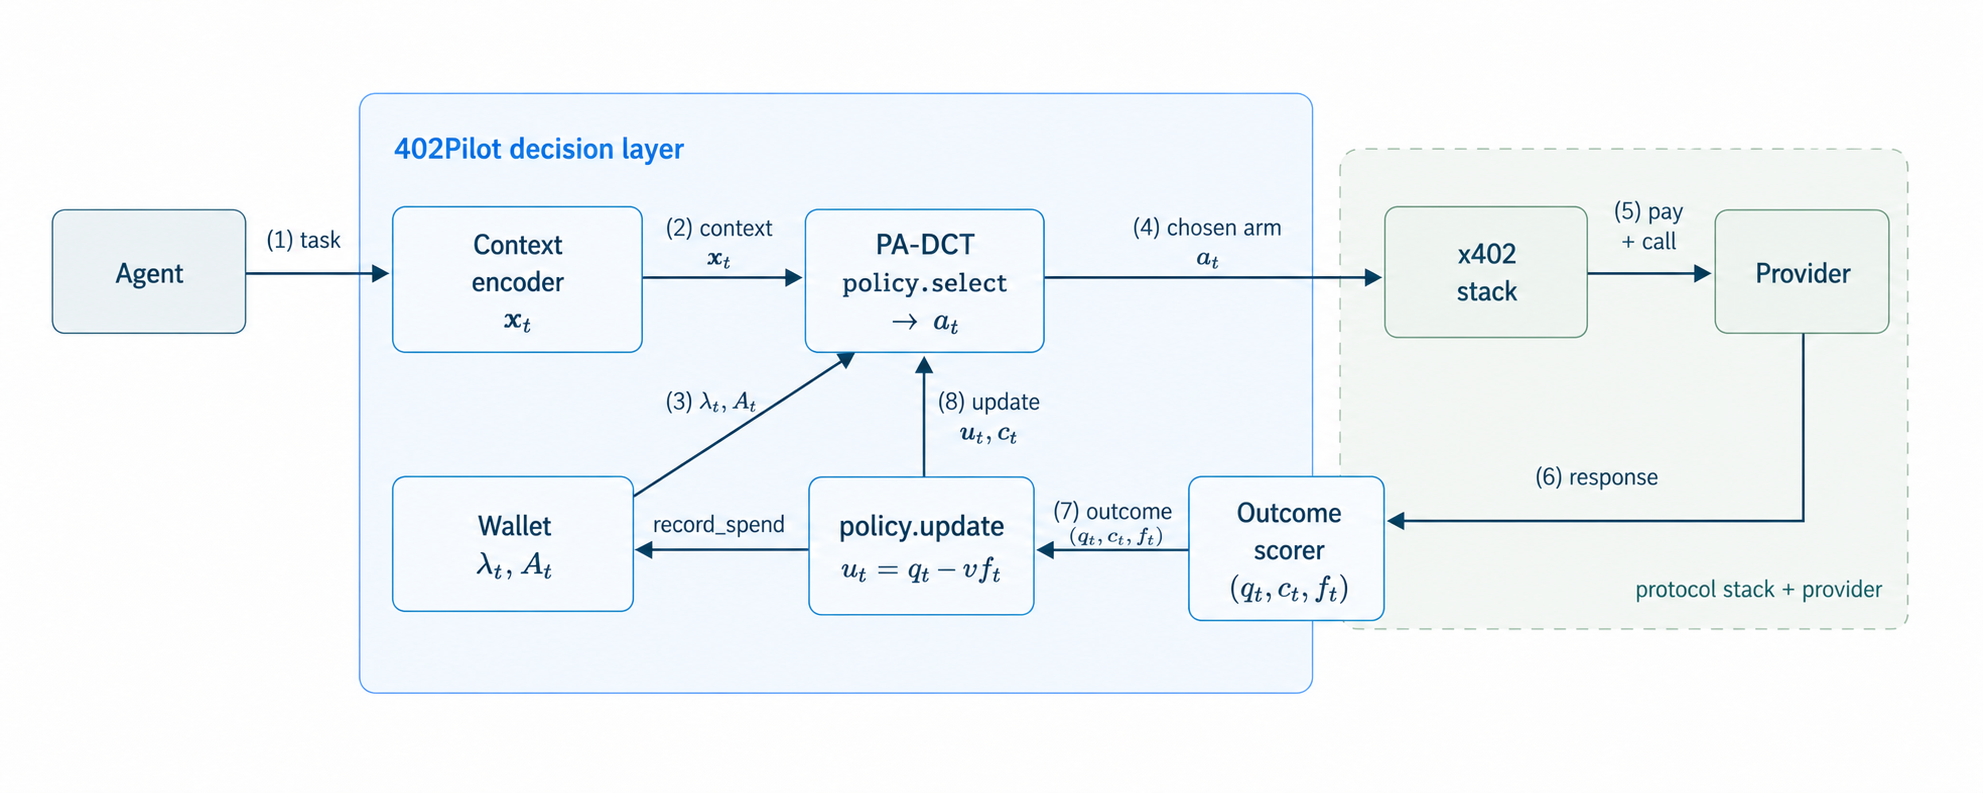
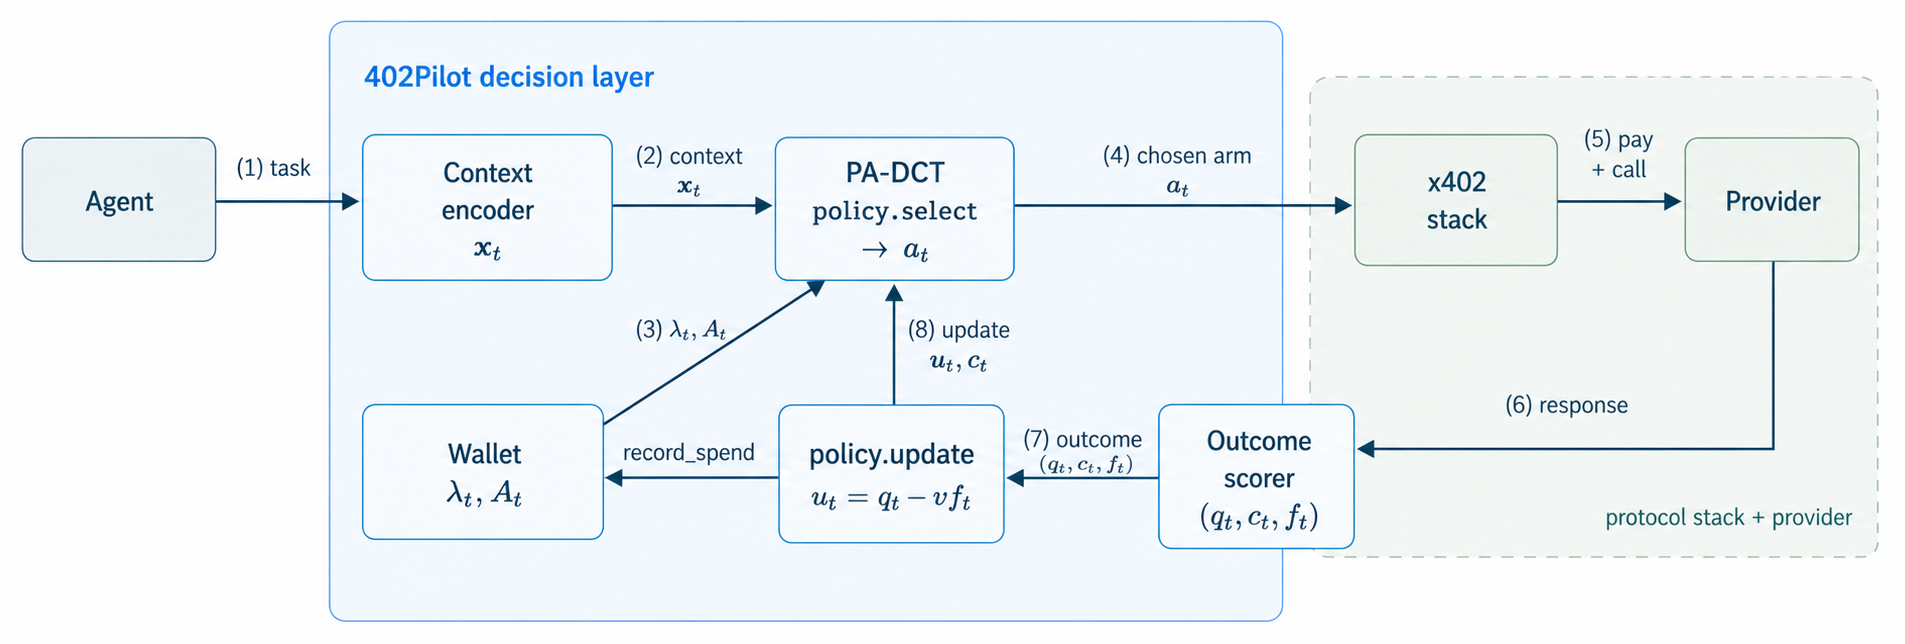
Revise problem formulation and enlarge architecture figure

diff --git a/paper/sections/03_problem_formulation.tex b/paper/sections/03_problem_formulation.tex
@@ -1,105 +1,79 @@
 \section{Problem Formulation}
 \label{sec:problem}
 
-We formalize agent-native payment decision-making as a budgeted, non-stationary contextual bandit over protocol-mediated payable endpoints.
+We model the setting as repeated provider selection by a single autonomous buyer with a finite wallet. The point is to make the payment loop explicit: the buyer must choose before paying, observes only the chosen service, and learns under changing quality and price.
 
 \paragraph{Round protocol.}
-Consider a single autonomous buyer with initial wallet budget $B$ and $K$ payable service providers over rounds $t \in \{0,\ldots,T-1\}$. At round $t$, each provider $a$ has an effective charge $p_{a,t} \in \mathbb{R}_{>0}$ that would be incurred if it were called; the vector $\mathbf{p}_t = (p_{1,t},\ldots,p_{K,t})$ is latent to the policy. At the start of round $t$, the buyer observes a task context $\mathbf{x}_t \in \mathcal{X}$, the wallet state $B_t$, and a feasibility signal $\mathcal{A}_t$ supplied by the wallet/payment interface,
+There are $K$ payable providers and a horizon $T$. The buyer starts with wallet budget $B_0=B$. At round $t\in\{0,\ldots,T-1\}$, a task context $\mathbf{x}_t\in\mathcal{X}$ arrives. Each provider $a$ has an effective charge $p_{a,t}>0$ for that round, and the wallet/payment interface returns the affordable set
 \begin{equation}
 \label{eq:affordable-set}
-\mathcal{A}_t \;=\; \{a \in \{1,\ldots,K\}: p_{a,t} \leq B_t\}.
+\mathcal{A}_t=\{a\in\{1,\ldots,K\}:p_{a,t}\le B_t\}.
 \end{equation}
-Set membership in $\mathcal{A}_t$ is the only information the policy receives about $\mathbf{p}_t$ pre-payment; individual effective charges are not exposed. If $\mathcal{A}_t$ is empty, the run stops. Otherwise, the buyer selects one provider $a_t \in \mathcal{A}_t$, pays before observing service quality, and receives the only feedback sample for the round. The selected call reveals $c_t=p_{a_t,t}$ (effective charges for unchosen providers remain hidden) and produces the service outcome
+If $\mathcal{A}_t$ is empty, the run stops. Otherwise the buyer chooses $a_t\in\mathcal{A}_t$, pays for that provider, and receives one feedback sample:
 \[
-(q_t, f_t) \sim \mathcal{D}_{a_t,t}(\cdot \mid \mathbf{x}_t),
+(q_t,f_t,c_t),\qquad c_t=p_{a_t,t}.
 \]
-where $q_t \in [0,1]$ is a task-level quality score, $c_t \in \mathbb{R}_{\geq 0}$ is the realized charged cost, and $f_t \in \{0,1\}$ marks timeout, parse failure, or another non-delivery event. Outcomes for unchosen providers are not observed. The wallet then evolves as
+Here $q_t\in[0,1]$ is task-level service quality, $f_t\in\{0,1\}$ marks non-delivery such as timeout or parse failure, and $c_t$ is the realized charge. The wallet evolves as
 \begin{equation}
 \label{eq:wallet}
-B_{t+1} = B_t - c_t, \qquad B_0 = B.
+B_{t+1}=B_t-c_t .
 \end{equation}
-The stopping time $\tau$ equals $T$ if the run reaches the horizon, and otherwise is the first round with $\mathcal{A}_t=\emptyset$.
+Let $\tau$ be the first round with no affordable provider, or $T$ if the horizon is reached.
 
-The environment is the sequence of tasks, latent effective charges, and provider outcome laws
+The policy does not observe counterfactual outcomes for unchosen providers. It also need not receive the full numeric price vector $\mathbf{p}_t=(p_{1,t},\ldots,p_{K,t})$ before selection; the decision-layer contract only assumes access to $\mathcal{A}_t$, while selected calls reveal their realized charge. The environment is therefore
 \[
 \begin{aligned}
 \mathcal{E}=\{(&\mathbf{x}_t,\mathbf{p}_t,
-\mathcal{D}_{1,t},\ldots,\mathcal{D}_{K,t})\}_{t=0}^{T-1}.
+\mathcal{D}_{1,t},\ldots,\mathcal{D}_{K,t})\}_{t=0}^{T-1},
 \end{aligned}
 \]
-The vector $\mathbf{p}_t$ is observed by the policy only through the selected charge $c_t$.
+where $(q_t,f_t)\sim\mathcal{D}_{a_t,t}(\cdot\mid\mathbf{x}_t)$ only for the chosen provider.
 
 \paragraph{Admissible policies.}
-Let $\mathcal{H}_t$ denote the information available immediately before selecting $a_t$:
+An admissible policy is non-anticipating and must choose only from the affordable set. Writing $\mathcal{H}_t$ for the history available before choosing at round $t$,
 \[
-\begin{aligned}
-\mathcal{H}_t =
-\sigma\!\big(&\{\mathbf{x}_s,\mathcal{A}_s,a_s,q_s,c_s,f_s\}_{s<t},\\
-&\mathbf{x}_t,\mathcal{A}_t,B_t\big).
-\end{aligned}
+a_t\sim\pi_t(\cdot\mid\mathcal{H}_t),\qquad
+\mathrm{supp}(\pi_t)\subseteq\mathcal{A}_t .
 \]
-An admissible policy is a non-anticipating sequence $\pi=\{\pi_t\}_{t=0}^{T-1}$ satisfying
-\[
-\begin{aligned}
-a_t &\sim \pi_t(\cdot \mid \mathcal{H}_t),\\
-\mathrm{supp}(\pi_t) &\subseteq \mathcal{A}_t .
-\end{aligned}
-\]
-Let $\Pi_{\mathrm{adm}}$ denote the class of such policies.
+We denote this class by $\Pi_{\mathrm{adm}}$.
 
-\paragraph{Payment-aware objective.}
-The round feedback provides two signals: service delivery and realized payment cost. We first summarize service delivery as utility,
+\paragraph{Payment-aware reward.}
+Service delivery is summarized as utility
 \begin{equation}
 \label{eq:utility}
-\ut = q_t - \nu f_t.
+\ut=q_t-\nu f_t ,
 \end{equation}
-The constant $\nu$ penalizes non-delivery beyond its effect on $q_t$. We then combine utility with normalized realized cost to obtain the payment-aware reward,
+where $\nu\ge0$ penalizes non-delivery beyond its effect on $q_t$. We combine utility with normalized realized cost:
 \begin{equation}
 \label{eq:reward}
 \begin{aligned}
-\ctilde &= \mathrm{clip}(c_t/c_{\max},0,1),\\
-\lamn &= \frac{\lambda_t}{1+\lambda_t},\\
-\rt &= (1-\lamn)\ut - \lamn\ctilde .
+\ctilde&=\mathrm{clip}(c_t/c_{\max},0,1),\\
+\lamn&=\frac{\lambda_t}{1+\lambda_t},\\
+\rt&=(1-\lamn)\ut-\lamn\ctilde .
 \end{aligned}
 \end{equation}
-Here $c_{\max}>0$ is a fixed cost normalizer chosen before evaluation. The multiplier $\lambda_t>0$ is defined below. For $0\leq\nu\leq1$, $\ut\in[-1,1]$; since $\ctilde\in[0,1]$ and $\lamn\in(0,1)$, the payment-aware reward satisfies $\rt\in[-1,1]$. Under environment $\mathcal{E}$, a policy $\pi$ aims to maximize
+For $0\le\nu\le1$, this gives $\rt\in[-1,1]$. Under environment $\mathcal{E}$, a policy aims to maximize
 \begin{equation}
 \label{eq:objective}
-J_{\mathcal{E}}(\pi) = \mathbb{E}^{\pi}_{\mathcal{E}}\!\left[\sum_{t=0}^{\tau-1} \rt \right],
+J_{\mathcal{E}}(\pi)=\mathbb{E}^{\pi}_{\mathcal{E}}\!\left[\sum_{t=0}^{\tau-1}\rt\right],
 \end{equation}
-where the expectation is over policy randomization and selected-provider outcomes. For any comparator $\bar\pi$, the \emph{payment-aware regret} is
+and payment-aware regret against comparator $\bar\pi$ is
 \begin{equation}
 \label{eq:pa-regret}
-\paReg_{\mathcal{E}}(\pi;\bar\pi) \;:=\; J_{\mathcal{E}}(\bar\pi) - J_{\mathcal{E}}(\pi).
+\paReg_{\mathcal{E}}(\pi;\bar\pi)=J_{\mathcal{E}}(\bar\pi)-J_{\mathcal{E}}(\pi).
 \end{equation}
-The scalar $\rt$ aggregates quality, failure, and cost through wallet pressure $\lamn$; because $\lamn$ depends on each policy's own spending trajectory, $J_{\mathcal{E}}(\pi)$ is not policy-invariant and should not be read as a stand-alone leaderboard score across policies. Full-information comparators that observe unchosen outcomes lie outside $\Pi_{\mathrm{adm}}$ and serve only as empirical upper bounds; \S\ref{sec:eval-setup} therefore reports the empirical PA-regret of each policy against the True Oracle alongside raw service-quality and spending metrics.
+Because $\lambda_t$ depends on a policy's own wallet trajectory, raw cumulative $\rt$ is not a stand-alone leaderboard score; the evaluation therefore reports PA-regret together with quality, spending, and ROI metrics. Full-information replay oracles that inspect unchosen outcomes are outside $\Pi_{\mathrm{adm}}$ and are used only as empirical upper bounds.
 
-\paragraph{Budget pressure.}
-The wallet-pressure multiplier $\lambda_t$ in Eq.~\eqref{eq:reward} is a deterministic function of cumulative spend. For $t>0$, define the realized burn rate as the fraction of the wallet spent per elapsed round,
-\begin{equation}
-\label{eq:burn-rate}
-\begin{aligned}
-\mathrm{actual\_burn\_rate}_t
-  &= \frac{(B-B_t)/B}{t},\\
-\mathrm{target\_rate}
-  &= \frac{1}{T}\qquad (t>0).
-\end{aligned}
-\end{equation}
-The normalized burn deviation is
+\paragraph{Budget pressure and non-stationarity.}
+The wallet-pressure multiplier is a deterministic function of cumulative spend. For $t>0$,
 \begin{equation}
 \label{eq:lambda}
 \begin{aligned}
-\bdev_t &=
-\frac{\mathrm{actual\_burn\_rate}_t-\mathrm{target\_rate}}
-{\mathrm{target\_rate}},\\
-\lambda_t &=
-\begin{cases}
-\lambda_0, & t=0,\\
-\lambda_0\exp(\alpha \bdev_t), & t>0.
-\end{cases}
+\mathrm{actual\_burn\_rate}_t&=\frac{(B-B_t)/B}{t},\\
+\bdev_t&=\frac{\mathrm{actual\_burn\_rate}_t-1/T}{1/T},\\
+\lambda_t&=\lambda_0\exp(\alpha\bdev_t),
 \end{aligned}
 \end{equation}
-with baseline $\lambda_0=1$ throughout and sharpness parameter $\alpha \geq 0$. Thus $\lamn=0.5$ when the buyer is exactly on the linear burn plan, decreases when the buyer is under-spending, and increases toward cost-dominated decisions when the wallet is being spent too quickly.
+with $\lambda_t=\lambda_0$ at $t=0$. We use $\lambda_0=1$ in all experiments, so $\lamn=0.5$ when spending is exactly on the linear plan; it decreases under under-spending and increases when the wallet burns too quickly.
 
-\paragraph{Non-stationarity and learning class.}
-We allow both $\mathcal{D}_{a,t}(\cdot \mid \mathbf{x})$ and $p_{a,t}$ to vary with $t$, so quality, reliability, and effective price may drift. Change points are not announced to the policy. Tasks arrive from an exogenous workload stream, and providers are non-strategic posted-price endpoints: they charge for service rather than bidding strategically for allocation. Apart from wallet accounting and the policy's internal belief state, actions do not induce controlled Markovian transitions in the environment. This yields a contextual bandit with budget state and non-stationary feedback, rather than a reinforcement-learning problem.
+Both provider outcome laws $\mathcal{D}_{a,t}$ and effective charges $p_{a,t}$ may vary over time, and change points are not announced. Tasks arrive exogenously and providers are posted-price endpoints rather than strategic bidders. Actions change the wallet and the policy's beliefs, but not the underlying task stream or provider state. The resulting problem is a contextual bandit with budget state and non-stationary feedback, not a full Markov decision process.

diff --git a/paper/sections/04_layer.tex b/paper/sections/04_layer.tex
@@ -5,7 +5,7 @@
 
 \begin{figure*}[t]
 \centering
-\includegraphics[width=0.92\linewidth]{figures/402pilotlayer.png}
+\includegraphics[width=\linewidth]{figures/402pilotlayer.png}
 \caption{The 402Pilot decision-layer architecture. The layer encodes the task context, restricts selection to wallet-feasible providers, and calls \texttt{policy.select}; settlement and service execution remain outside the layer. After the provider responds, the outcome scorer and payment receipt produce $(q_t,c_t,f_t)$ for \texttt{policy.update}.}
 \label{fig:architecture}
 \end{figure*}